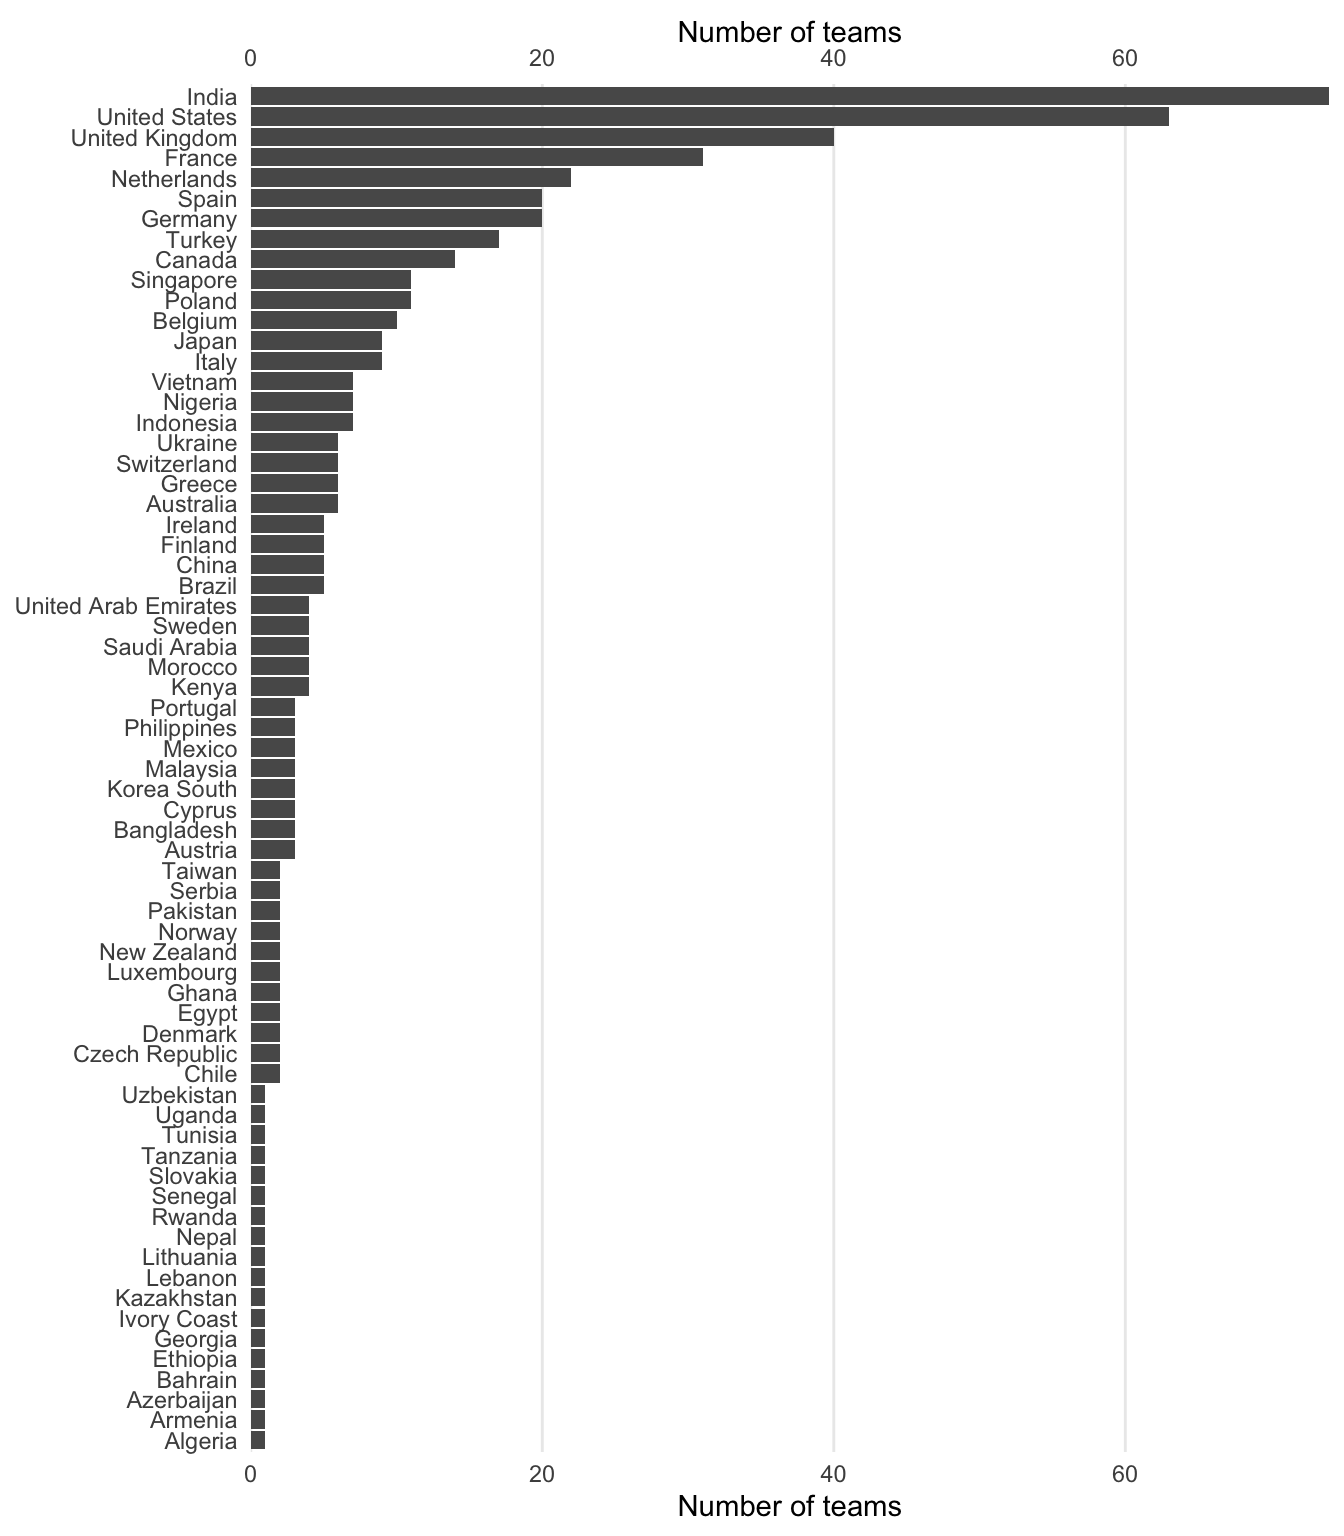
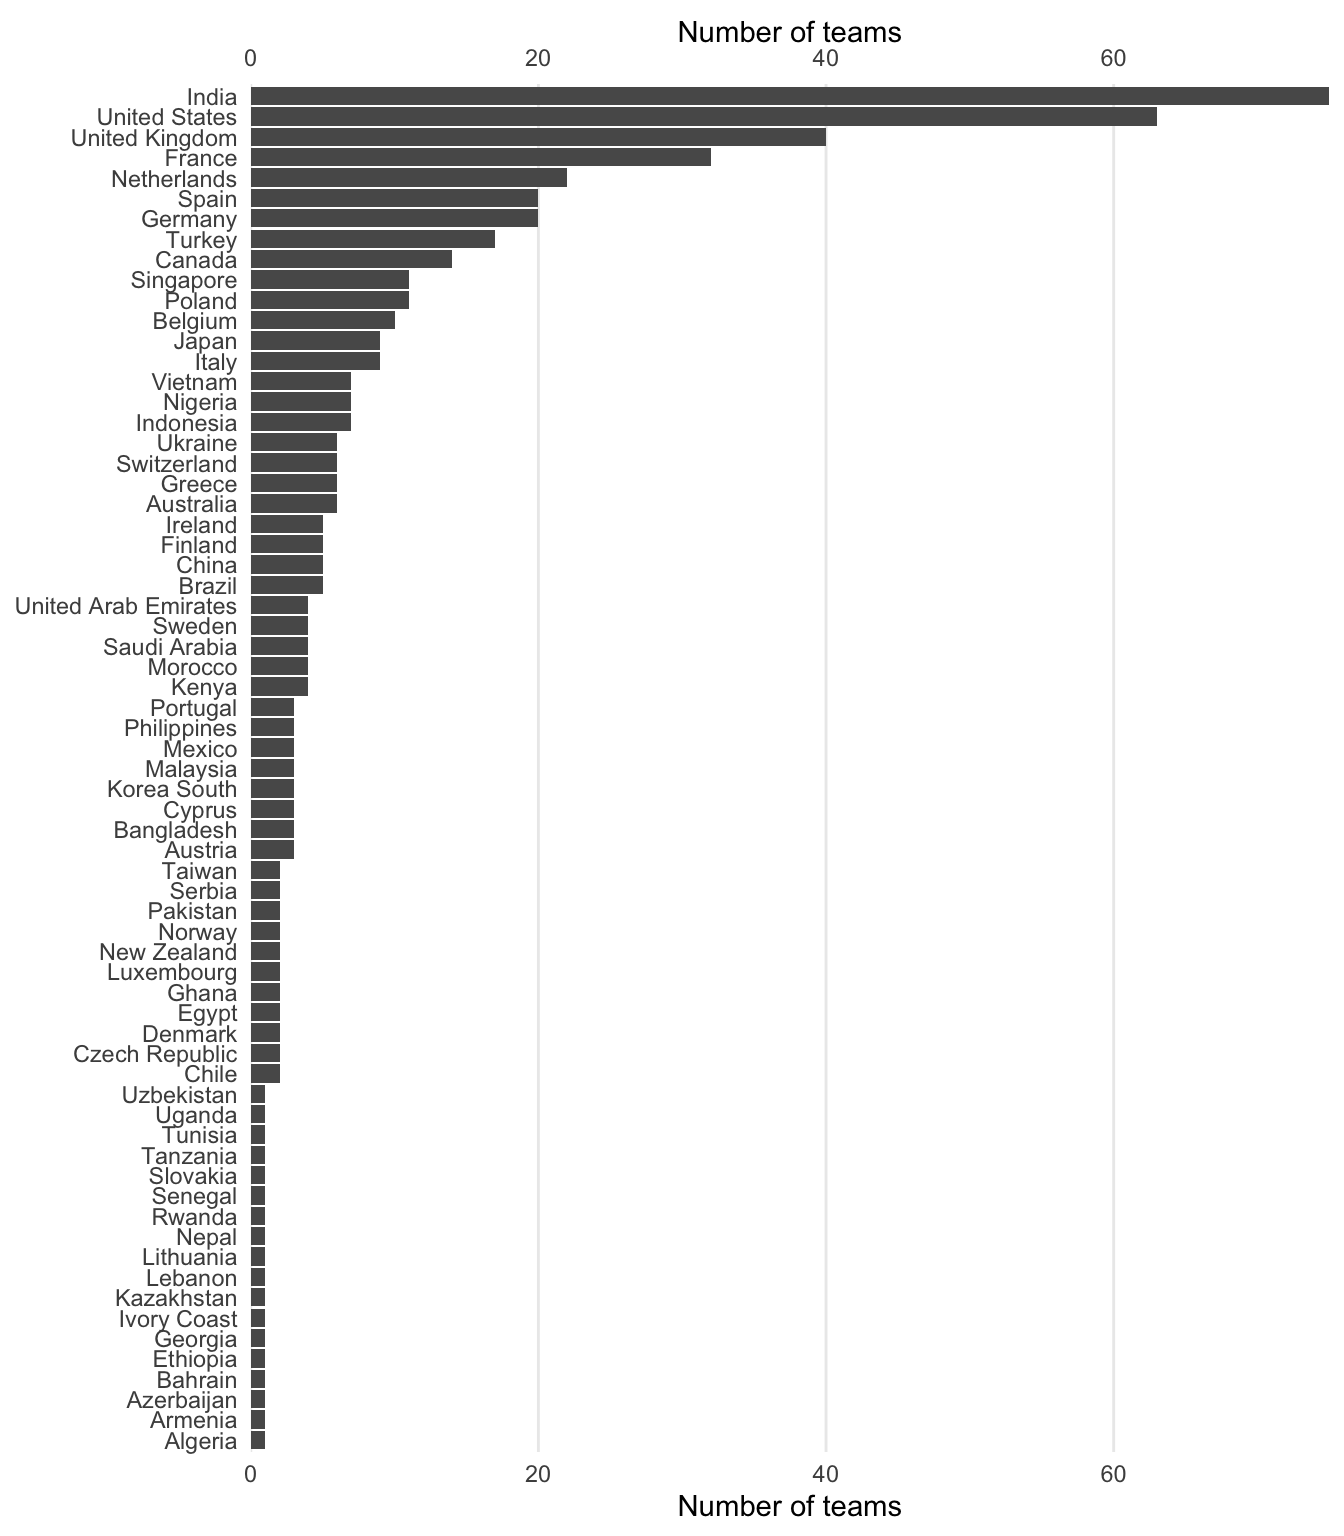
announce final

diff --git a/_site/ranking.html b/_site/ranking.html
@@ -3491,6 +3491,7 @@ ul.task-list li input[type="checkbox"] {
   <ul>
   <li><a href="#leaderboard" id="toc-leaderboard" class="nav-link active" data-scroll-target="#leaderboard">Leaderboard</a></li>
   <li><a href="#submission-instructions" id="toc-submission-instructions" class="nav-link" data-scroll-target="#submission-instructions">Submission Instructions</a></li>
+  <li><a href="#final-submission" id="toc-final-submission" class="nav-link" data-scroll-target="#final-submission">Final Submission</a></li>
   <li><a href="#acronyms_HEADER_LOA" id="toc-acronyms_HEADER_LOA" class="nav-link" data-scroll-target="#acronyms_HEADER_LOA">List of Acronyms</a></li>
   </ul>
 </nav>
@@ -3591,6 +3592,13 @@ ul.task-list li input[type="checkbox"] {
 <p>You will <strong>NOT</strong> be able to submit via the webinterface, please use the <strong>MinIO CLI</strong> as described in the <a href="./data.html">Data</a> section.</p>
 </div>
 </div>
+</section>
+<section id="final-submission" class="level2">
+<h2 class="anchored" data-anchor-id="final-submission">Final Submission</h2>
+<p>Please submit you unique final submission using the following filename:</p>
+<blockquote class="blockquote">
+<p><code>&lt;team-name&gt;_final.parquet</code></p>
+</blockquote>
 
 
 </section>

diff --git a/_site/index.html b/_site/index.html
@@ -3570,6 +3570,19 @@ window.Quarto = {
 <section id="timeline" class="level5">
 <h5 class="anchored" data-anchor-id="timeline"><strong>Timeline</strong></h5>
 <p>The competition runs from the <strong><span class="math inline">\(1^{st}\)</span> of September 2026</strong> up until the <strong><span class="math inline">\(11^{th}\)</span> of October 2026 23:59:59 CET</strong>.</p>
+<div class="callout callout-style-default callout-important callout-titled" title="Important">
+<div class="callout-header d-flex align-content-center">
+<div class="callout-icon-container">
+<i class="callout-icon"></i>
+</div>
+<div class="callout-title-container flex-fill">
+<span class="screen-reader-only">Important</span>Important
+</div>
+</div>
+<div class="callout-body-container callout-body">
+<p>We are having a final submission for which the deadline is <strong>2026-10-14T12:00 CET</strong> (2026-10-14T12:00+02:00)</p>
+</div>
+</div>
 </section>
 <section id="reward" class="level5">
 <h5 class="anchored" data-anchor-id="reward"><strong>Reward</strong></h5>

diff --git a/_site/eligibility.html b/_site/eligibility.html
@@ -3545,6 +3545,7 @@ ul.task-list li input[type="checkbox"] {
 <li>All <strong>additional datasets</strong> used are openly available under an open source license.</li>
 <li>Sufficient <strong>documentation</strong> is provided <strong>to understand and reproduce</strong> the results.</li>
 <li>The solution is <strong><em>original</em></strong>: Teams must use their own original solutions. Re-using any existing implementation is only allowed if the original authors grant you the rights to use their solution and if you made significant modifications to the algorithm or model. In particular, simply re-using existing code and rewriting the data input and output mechanism is not sufficient. Adding parameters to the model and modifying filters to match the specific peculiarities of the data, however, can be considered sufficient.</li>
+<li>Final single submission is uploaded by <strong>2026-10-14T12:00 CET</strong> (2026-10-14T12:00+02:00)</li>
 </ul>
 
 

diff --git a/_site/data.html b/_site/data.html
@@ -3673,6 +3673,14 @@ As per all our data challenges, we do not <em>play</em> with synthetic/artificia
 </ul>
 <p>See <a href="./ranking.html#submission-instructions">Submission Instructions</a>.</p>
 </section>
+<section id="the-final-datasets" class="level3">
+<h3 class="anchored" data-anchor-id="the-final-datasets">The Final Datasets</h3>
+<p>Same as the ranking and submitting dataset but covering two additional months, February amd June 2026:</p>
+<ul>
+<li><code>final_ranking.parquet</code></li>
+<li><code>final_submitting.parquet</code></li>
+</ul>
+</section>
 </section>
 <section id="column-description" class="level2">
 <h2 class="anchored" data-anchor-id="column-description">Column Description</h2>
